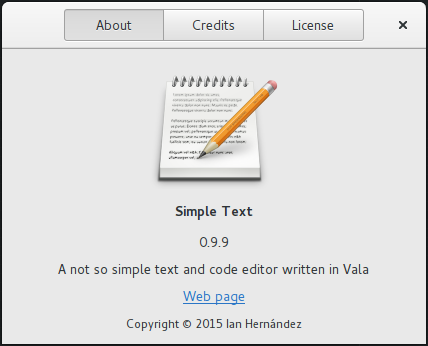
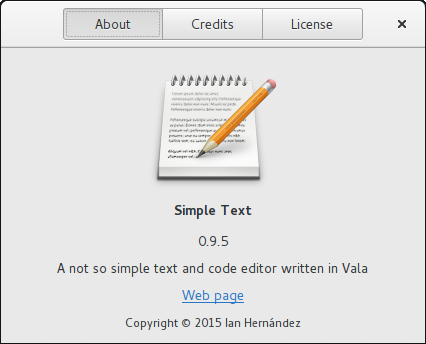
- Versioning corrected - README.md updated

diff --git a/README.md b/README.md
@@ -1,37 +1,61 @@
 # Simple Text (beta)
 
 [![Join the chat at https://gitter.im/BadWolfie/simple-text](https://badges.gitter.im/Join%20Chat.svg)](https://gitter.im/BadWolfie/simple-text?utm_source=badge&utm_medium=badge&utm_campaign=pr-badge&utm_content=badge)  
-A *not so simple* text and code editor written in Vala.
 
-Requires: Vala, GTK+ 3, GTKSourceView 3, Gee 0.8, VTE 2.91, dconf
+Simple Text is a text and code editor written in the Vala programming language using the GTK+3 toolkit, taking advantage of the GTKSourceView, VTE and other tools. 
 
-Compiling: `$ ./configure && make`  
-Installing: `# make install`  
+It's currently available as an AUR package for ArchLinux and we are working to port it to other Linux distributions such as Debian and Fedora.
 
-Check the [releases page](https://github.com/BadWolfie/simple-text/releases) for more installation options.
+Check the [releases page](https://github.com/badwolfie/simple-text/releases) for installation options.  
 
 ![About](screenshots/about.png)
 
-### Main view
+Dependencies (package names may vary depending on your distribution):
+* gtk3 >= 3.16
+* gtksourceview3
+* libgee >= 0.8
+* vte3
+* dconf
+* intltool
+* vala
+
+Also, the GNU autotools (autoconf, automake, ...)  
+For compiling:
+```
+	$ ./autogen.sh
+	$ ./configure
+	$ make
+```
+
+For installing: `# make install`  
+
+## Screenshots
+#### Main view
 ![Main view](screenshots/main-view.png)
 
-### Tab support
+#### Tab support
 ![Tab support](screenshots/tab-support.png)
 
-### Syntax setting
+#### Syntax setting
 ![Syntax setting](screenshots/syntax-setting.png)
 
-### Syntax highlighting
+#### Syntax highlighting
 ![Syntax highlighting](screenshots/syntax-highlighting.png)
 
-### Embeded terminal
+#### Embeded terminal
 ![Embeded terminal](screenshots/embeded-terminal.png)
 
-### Edit preferences
+#### Edit preferences
 ![Edit preferences](screenshots/editing-prefs.png)
 
-### Color schemes
+#### Color schemes
 ![Color schemes](screenshots/color-schemes.png)
 
-### Dark theme variant
+#### Dark theme variant
 ![Dark theme variant](screenshots/dark-variant.png)
+
+---
+
+To report an issue or request a feature go to the [issues page](https://github.com/badwolfie/simple-text/issues) or contact me on my [e-mail](mailto:ihernandezs@openmailbox.org).
+
+*Hope you really enjoy this project :)*
